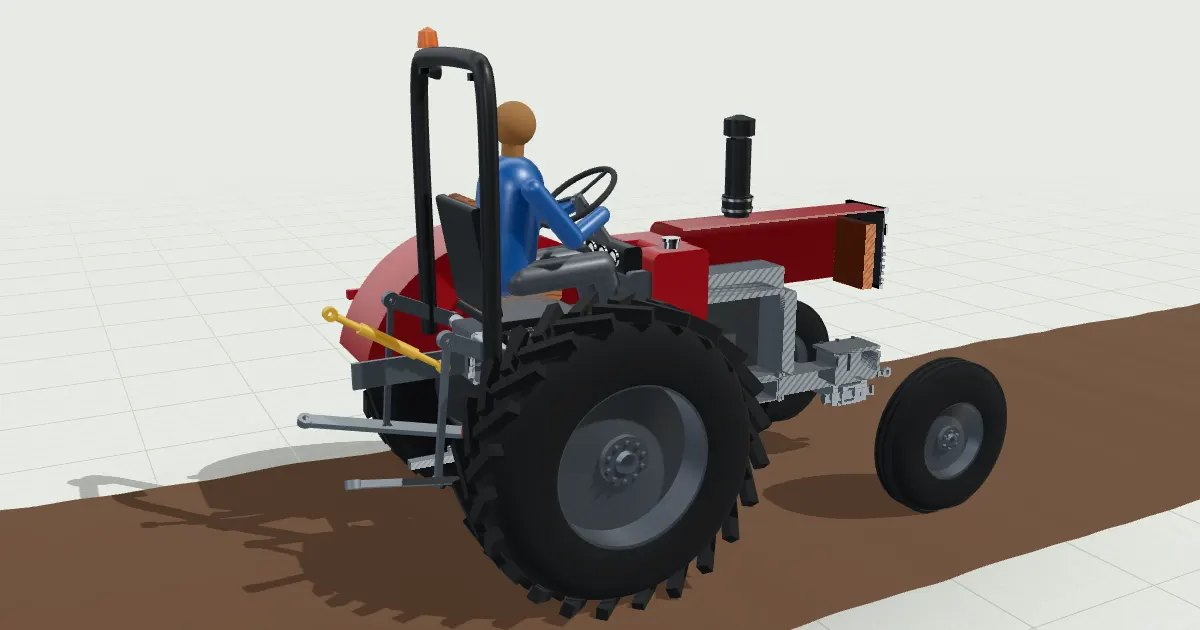
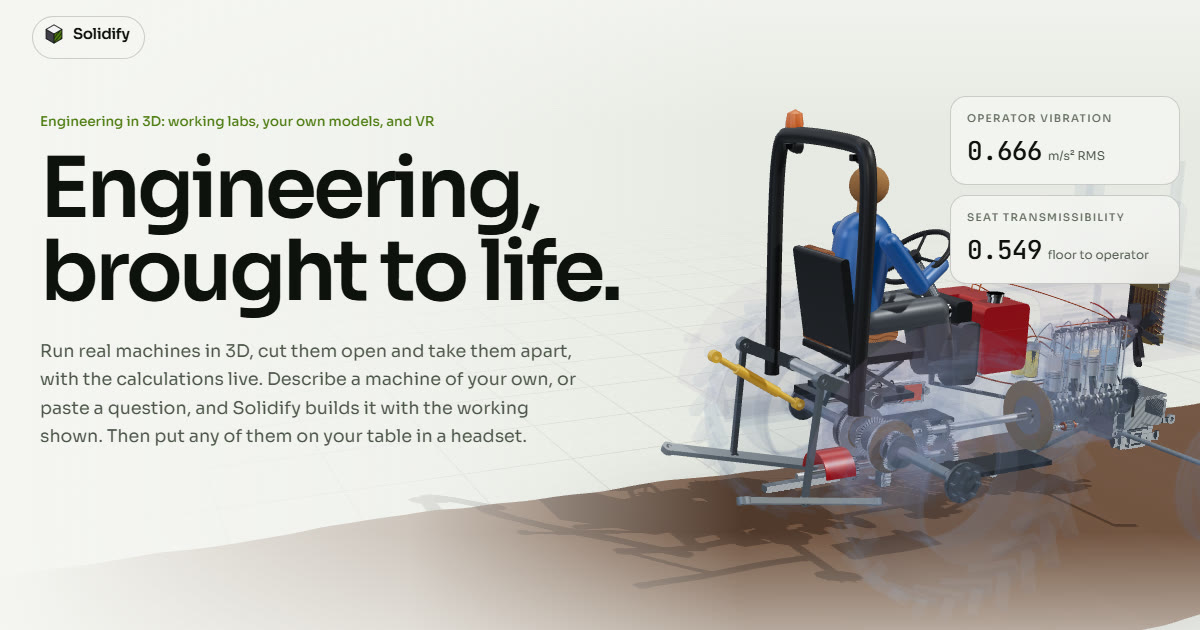
Home page says what Solidify is now: labs, a model of your own, and either in a headset (three cards under the hero), Create in 3D moved up, the open .slfy format introduced; the site title, description and share card no longer call it a tractor simulator

diff --git a/web/src/ui/Landing.tsx b/web/src/ui/Landing.tsx
@@ -38,10 +38,11 @@ const HERO_SCENES: { moduleId: string; sceneId: string; label: string; frame: St
 
 const COPY = {
   professional: {
-    eyebrow: 'Interactive 3D machinery simulator and engineering lab',
+    eyebrow: 'Engineering in 3D: working labs, your own models, and VR',
     title: 'Open up the machine.',
-    lead: 'Cut through a running tractor, pull a specimen until it snaps, or bring a steam plant up to pressure. Set the conditions, watch the test run, and read the results as they come in.',
-    primary: { label: 'Explore the tractor', to: '/m/powertrain/line-of-drive' },
+    lead: 'Run real machines in 3D, cut them open and take them apart, with the calculations live. Describe a machine of your own and Solidify builds it. Then put any of them on your table in a headset.',
+    primary: { label: 'Open the labs', to: '/labs' },
+    labs: { label: 'Build a model', to: '/create/new' },
     features: [
       { icon: 'cut', title: 'True cutaways', text: 'Slice any assembly at any angle. Cut faces are hatched by material like an engineering drawing; moving parts stay whole so you can watch them work.' },
       { icon: 'sliders', title: 'Live calculations', text: 'Every slider drives the physics: belt tensions, clutch capacity, hydrostatic flow, slip and tractive efficiency, with the working shown.' },
@@ -50,11 +51,11 @@ const COPY = {
     ],
   },
   academic: {
-    eyebrow: '3D models, labs and worked answers for engineering and science students',
+    eyebrow: 'Engineering in 3D: working labs, your own models, and VR',
     title: 'Engineering, brought to life.',
-    lead: 'Paste any question, from materials science to machine design, and see it in 3D with the working step by step. Run lab tests on engines, materials, mechanisms and thermal plant, then practise with fresh numbers and see the slip behind a wrong answer.',
-    primary: { label: 'Solve a question', to: '/questions' },
-    labs: { label: 'Open the labs', to: '/labs' },
+    lead: 'Run real machines in 3D, cut them open and take them apart, with the calculations live. Describe a machine of your own, or paste a question, and Solidify builds it with the working shown. Then put any of them on your table in a headset.',
+    primary: { label: 'Open the labs', to: '/labs' },
+    labs: { label: 'Build a model', to: '/create/new' },
     features: [
       { icon: 'cut', title: 'Interactive diagrams', text: 'Every textbook figure becomes a model you can turn, slice, explode and run in slow motion, down to 1/200 of real speed.' },
       { icon: 'book', title: 'Worked examples', text: 'Load exam-style data into any scene and follow the working: the formula, the numbers substituted, then the answer.' },
@@ -385,13 +386,11 @@ function Hero({ copy }: { copy: (typeof COPY)[keyof typeof COPY] }) {
               <Link to={copy.primary.to} className="inline-flex items-center gap-2 rounded-full bg-accent px-7 py-4 text-[15px] font-semibold text-accent-ink transition-transform hover:brightness-105 active:scale-[0.98]">
                 {copy.primary.label} <Icon.chevron width={16} height={16} />
               </Link>
-              {'labs' in copy ? (
-                <Link to={copy.labs.to} className="inline-flex items-center gap-2 rounded-full border border-line-2 bg-[var(--color-scrim)] px-6 py-4 text-[15px] font-medium text-ink backdrop-blur-xl transition-colors hover:border-accent/50">
-                  {copy.labs.label}
-                </Link>
-              ) : null}
+              <Link to={copy.labs.to} className="inline-flex items-center gap-2 rounded-full border border-line-2 bg-[var(--color-scrim)] px-6 py-4 text-[15px] font-medium text-ink backdrop-blur-xl transition-colors hover:border-accent/50">
+                {copy.labs.label}
+              </Link>
               <Link to="/promo" className="inline-flex items-center gap-2 rounded-full border border-line-2 bg-[var(--color-scrim)] px-6 py-4 text-[15px] font-medium text-ink backdrop-blur-xl transition-colors hover:border-accent/50">
-                <Icon.tour width={16} height={16} /> Watch the tour
+                <Icon.tour width={16} height={16} /> Watch the demo
               </Link>
             </div>
           </div>
@@ -611,7 +610,62 @@ function AudienceCard({ who, title, points, active, onChoose }: { who: string; t
   )
 }
 
-const HOME_TITLE = 'Solidify — Engineering in 3D: models, labs and worked answers'
+const HOME_TITLE = 'Solidify — Engineering in 3D: labs, your own models and VR'
+
+/** What Solidify is, in three: the labs, a model of your own, and either of them in a headset. */
+function Pillars() {
+  const items = [
+    { name: 'scenes/powertrain--gearboxes', alt: 'A tractor gearbox cut open, its power path in orange', title: 'Labs that run', text: 'Hand-built machines and test rigs on real physics. Run them, cut them open, take them apart and read the numbers as they change.', to: '/labs', link: 'Open the labs' },
+    { name: 'home/create', alt: 'A helical gear pair built from a description, its tooth forces shown on it', title: 'Your own machine, from words', text: 'Describe a machine or upload a photo. Solidify builds a working model with its sizes, loads and calculations, and changes it when you ask.', to: '/create/new', link: 'Build a model' },
+    { name: 'home/vr', alt: 'The gear pair on a table in a headset, a hand at its control panel', title: 'On your table, in a headset', text: 'Open a lab or a model on a Quest. Stand it on the table in front of you, or beside you at real size, and work it with your hands.', to: '/labs', link: 'Pick a lab to open' },
+  ]
+  return (
+    <section id="what" className="mx-auto grid max-w-[1360px] scroll-mt-20 gap-4 px-5 pt-14 sm:px-10 md:grid-cols-3">
+      {items.map((it) => (
+        <Link key={it.title} to={it.to} className="group flex flex-col overflow-hidden rounded-3xl border border-line bg-panel transition-colors hover:border-accent/50">
+          <Media name={it.name} alt={it.alt} className="aspect-[4/3] w-full bg-[var(--color-stage)] object-cover" />
+          <div className="flex flex-1 flex-col p-6">
+            <h2 className="text-[20px] font-semibold tracking-[-0.02em] text-ink">{it.title}</h2>
+            <p className="mt-2 flex-1 text-[14px] leading-relaxed text-mute">{it.text}</p>
+            <span className="mt-5 inline-flex items-center gap-1.5 text-[13.5px] font-semibold text-accent">
+              {it.link} <Icon.chevron width={14} height={14} className="transition-transform group-hover:translate-x-0.5" />
+            </span>
+          </div>
+        </Link>
+      ))}
+    </section>
+  )
+}
+
+/** The open model format: a model is a file anyone can read, not something locked in the app. */
+function OpenFormat() {
+  const out = 'rounded-full border border-line-2 px-5 py-2.5 text-[13.5px] font-semibold text-ink transition-colors hover:border-accent/50'
+  return (
+    <section id="format" className="mx-auto max-w-[1360px] scroll-mt-20 px-5 pt-20 sm:px-10">
+      <div className="grid gap-6 rounded-3xl border border-line bg-panel p-7 sm:p-10 lg:grid-cols-12 lg:items-center">
+        <div className="lg:col-span-7">
+          <p className="font-mono text-[13px] text-accent">.slfy</p>
+          <h2 className="mt-2 text-[26px] font-semibold tracking-[-0.03em] sm:text-[32px]">An open format for working models</h2>
+          <p className="mt-3 max-w-2xl text-[15px] leading-relaxed text-mute">
+            Every model Solidify builds saves as a .slfy file: plain text holding the parts, how they join and move, the sizes you can change and the calculations. The format is public, with a specification, a schema and worked examples, so a model
+            is never locked in.
+          </p>
+        </div>
+        <div className="flex flex-wrap gap-2 lg:col-span-5 lg:justify-end">
+          <a href="https://slfy.solidify.studio" target="_blank" rel="noreferrer" className="rounded-full bg-accent px-5 py-2.5 text-[13.5px] font-semibold text-accent-ink hover:brightness-110">
+            Read the specification
+          </a>
+          <Link to="/create/open" className={out}>
+            Open a model file
+          </Link>
+          <a href="https://github.com/HectorGitt/slfy" target="_blank" rel="noreferrer" className={out}>
+            GitHub
+          </a>
+        </div>
+      </div>
+    </section>
+  )
+}
 
 /** Two ways to reach us: ask for a feature, or talk to us about a school or company plan. */
 function Contact() {
@@ -661,6 +715,10 @@ export function Landing() {
 
       <Hero copy={copy} />
 
+      <Pillars />
+
+      <BuildYourOwn />
+
       <LiveTest />
 
       <section id="systems" className="mx-auto max-w-[1360px] scroll-mt-20 px-5 pt-16 sm:px-10">
@@ -682,8 +740,6 @@ export function Landing() {
 
       <RigOfTheDay />
 
-      <BuildYourOwn />
-
       <section className="mx-auto grid max-w-[1360px] gap-4 px-5 pt-20 sm:grid-cols-2 sm:px-10 lg:grid-cols-4">
         <Stat value={total} label="interactive 3D scenes" />
         <Stat value={READY.length} label="systems and labs" />
@@ -703,6 +759,8 @@ export function Landing() {
           ))}
         </div>
       </section>
+
+      <OpenFormat />
 
       <Roles />
 

diff --git a/web/index.html b/web/index.html
@@ -23,21 +23,21 @@
         document.documentElement.dataset.theme = t
       } catch (e) {}
     </script>
-    <meta name="description" content="Interactive 3D tractors, machinery and engineering labs. Cut open engines and gearboxes, run tensile, beam and steam plant tests live, and practise with worked exam questions." />
+    <meta name="description" content="Run real machines in 3D, cut them open and take them apart, in the browser or in a headset. Describe any machine and Solidify builds it, with the calculations live. Labs across engines, tractors and farm machinery, mechanisms, materials and thermal plant." />
     <link rel="canonical" href="https://solidify.studio/" />
     <meta property="og:site_name" content="Solidify" />
-    <meta property="og:title" content="Solidify — Interactive 3D Tractor & Farm Machinery" />
-    <meta property="og:description" content="Cut open a running tractor in 3D, or run a lab test on screen: mechanisms, strength of materials, thermal plant and technical drawing." />
+    <meta property="og:title" content="Solidify — Engineering in 3D: labs, your own models and VR" />
+    <meta property="og:description" content="Run real machines in 3D, cut them open and take them apart. Or describe a machine and Solidify builds it, calculations and all. In the browser or in a headset." />
     <meta property="og:url" content="https://solidify.studio/" />
     <meta property="og:type" content="website" />
     <meta property="og:image" content="https://solidify.studio/media/og.jpg" />
     <meta property="og:image:width" content="1200" />
     <meta property="og:image:height" content="630" />
-    <meta property="og:image:alt" content="A tractor in 3D with its operator, engine and drivetrain cut away" />
+    <meta property="og:image:alt" content="A machine running in 3D beside the words: Engineering, brought to life" />
     <meta name="twitter:card" content="summary_large_image" />
     <meta name="twitter:site" content="@solidify_studio" />
-    <meta name="twitter:title" content="Solidify — Interactive 3D Tractor & Farm Machinery" />
-    <meta name="twitter:description" content="Cut open a running tractor in 3D, or run a lab test on screen, with the engineering worked live." />
+    <meta name="twitter:title" content="Solidify — Engineering in 3D: labs, your own models and VR" />
+    <meta name="twitter:description" content="Run real machines in 3D, build your own from a description, and open either in a headset." />
     <meta name="twitter:image" content="https://solidify.studio/media/og.jpg" />
     <script type="application/ld+json">
       {
@@ -47,8 +47,8 @@
         "url": "https://solidify.studio/",
         "applicationCategory": "EducationalApplication",
         "operatingSystem": "Any (web browser)",
-        "description": "Interactive 3D cutaways of tractors and machinery, live laboratory tests in mechanisms, strength of materials, thermal plant and technical drawing, with worked calculations, guided tours and exam practice.",
-        "about": ["Tractors", "Farm machinery", "Agricultural engineering", "Farm power", "Mechanisms", "Strength of materials", "Thermodynamics", "Technical drawing"],
+        "description": "Working 3D machines and laboratory rigs to run, cut open and take apart; models built from a description or a photo, with their calculations; all of it in the browser or in a VR headset. Labs cover engines, tractors and farm machinery, mechanisms, strength of materials, thermal plant and technical drawing, with guided tours and exam practice.",
+        "about": ["Mechanical engineering", "Machine design", "Mechanisms", "Strength of materials", "Thermodynamics", "Technical drawing", "Tractors", "Farm machinery", "Agricultural engineering", "Virtual reality"],
         "sameAs": ["https://x.com/solidify_studio"]
       }
     </script>
@@ -56,7 +56,7 @@
     <link rel="preconnect" href="https://fonts.googleapis.com" />
     <link rel="preconnect" href="https://fonts.gstatic.com" crossorigin />
     <link href="https://fonts.googleapis.com/css2?family=Sora:wght@300;400;500;600;700&family=JetBrains+Mono:wght@400;500&display=swap" rel="stylesheet" />
-    <title>Solidify — Interactive 3D Tractor &amp; Farm Machinery</title>
+    <title>Solidify — Engineering in 3D: labs, your own models and VR</title>
   </head>
   <body>
     <!-- Google Tag Manager (noscript) -->
@@ -65,8 +65,8 @@
     <!-- End Google Tag Manager (noscript) -->
     <div id="root"></div>
     <noscript>
-      <h1>Solidify: interactive 3D machinery simulator and engineering lab</h1>
-      <p>Cut open a running tractor in 3D, run laboratory tests on machines and materials, and size every system with live engineering calculations. Solidify needs JavaScript to run.</p>
+      <h1>Solidify: engineering in 3D, with working labs, your own models and VR</h1>
+      <p>Run real machines in 3D, cut them open and take them apart, with live engineering calculations. Describe a machine of your own and Solidify builds it. Open either in the browser or in a VR headset. Solidify needs JavaScript to run.</p>
       <h2>Systems</h2>
       <p>Engine, power train, PTO and driveline, hydraulics and three-point hitch, steering, tyres, tracks and traction, chassis and stability, implements, machine elements, mechanisms and machine dynamics, strength of materials, thermal plant, technical drawing, testing and management, vibration and the operator, and field operations. Coming soon: crop processing, water and irrigation, farm structures and precision farming.</p>
       <h2>For students and lecturers</h2>

diff --git a/web/src/ui/HomeSections.tsx b/web/src/ui/HomeSections.tsx
@@ -158,7 +158,7 @@ export function BuildYourOwn() {
   return (
     <section className="mx-auto grid max-w-[1360px] gap-8 px-5 pt-20 sm:px-10 lg:grid-cols-12 lg:gap-12">
       <div className="lg:col-span-5">
-        <h2 className="text-[30px] font-semibold tracking-[-0.03em] sm:text-[38px]">Or describe your own machine.</h2>
+        <h2 className="text-[30px] font-semibold tracking-[-0.03em] sm:text-[38px]">Describe a machine. Watch it built.</h2>
         <p className="mt-3 text-[15px] leading-relaxed text-mute">
           Type what you need, or upload a photo. Solidify builds it part by part in front of you, works out the engineering, and lets you change anything by chatting.
         </p>
